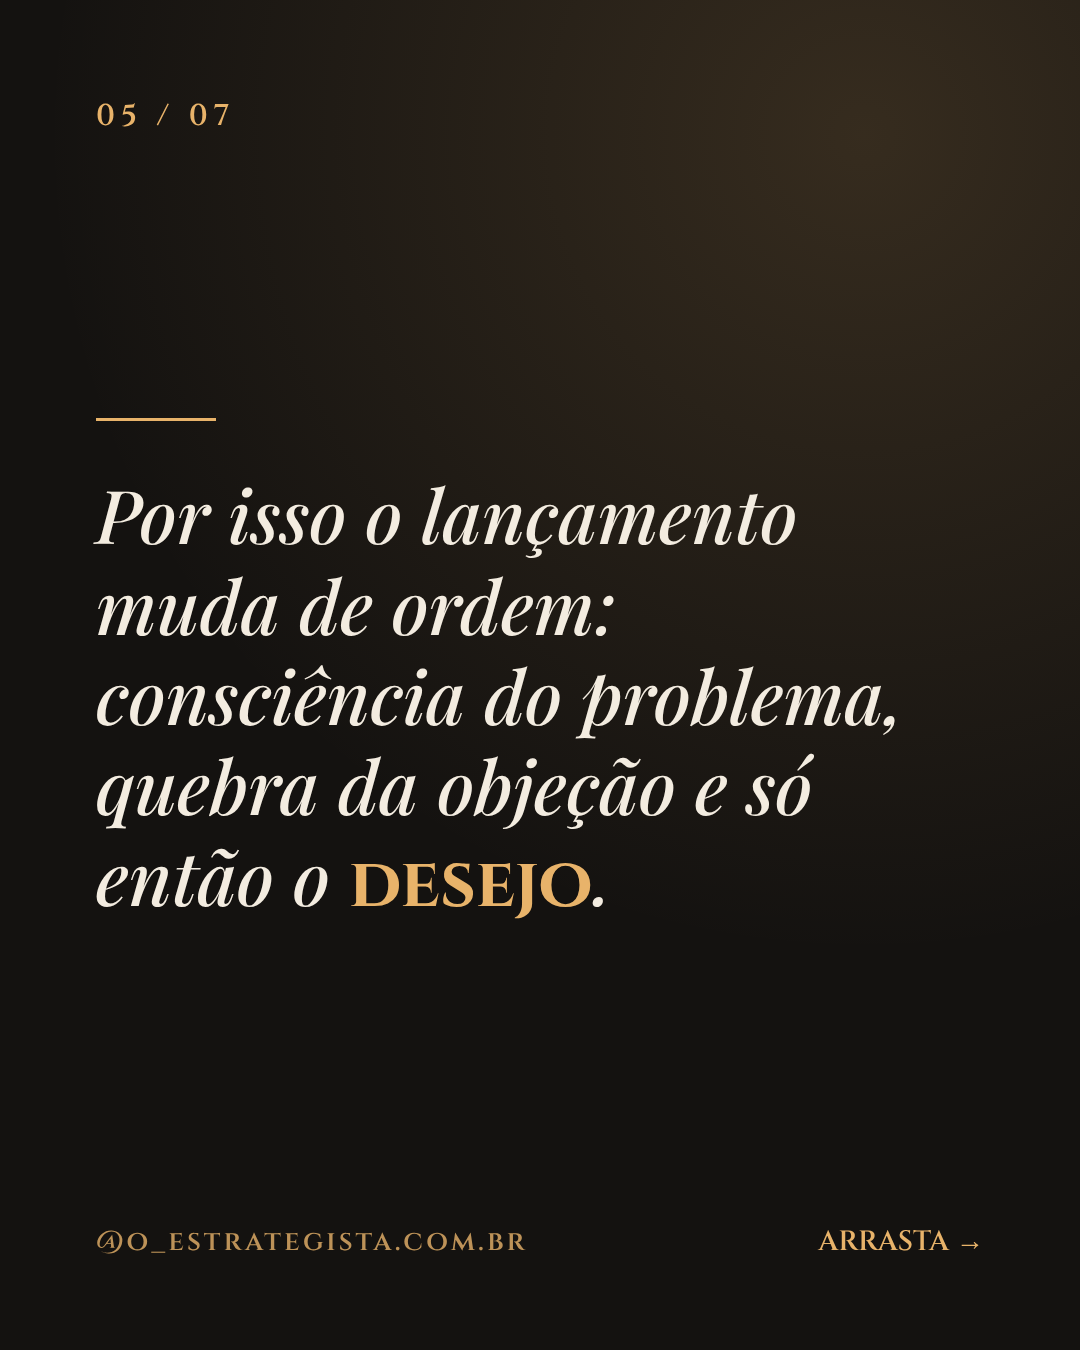
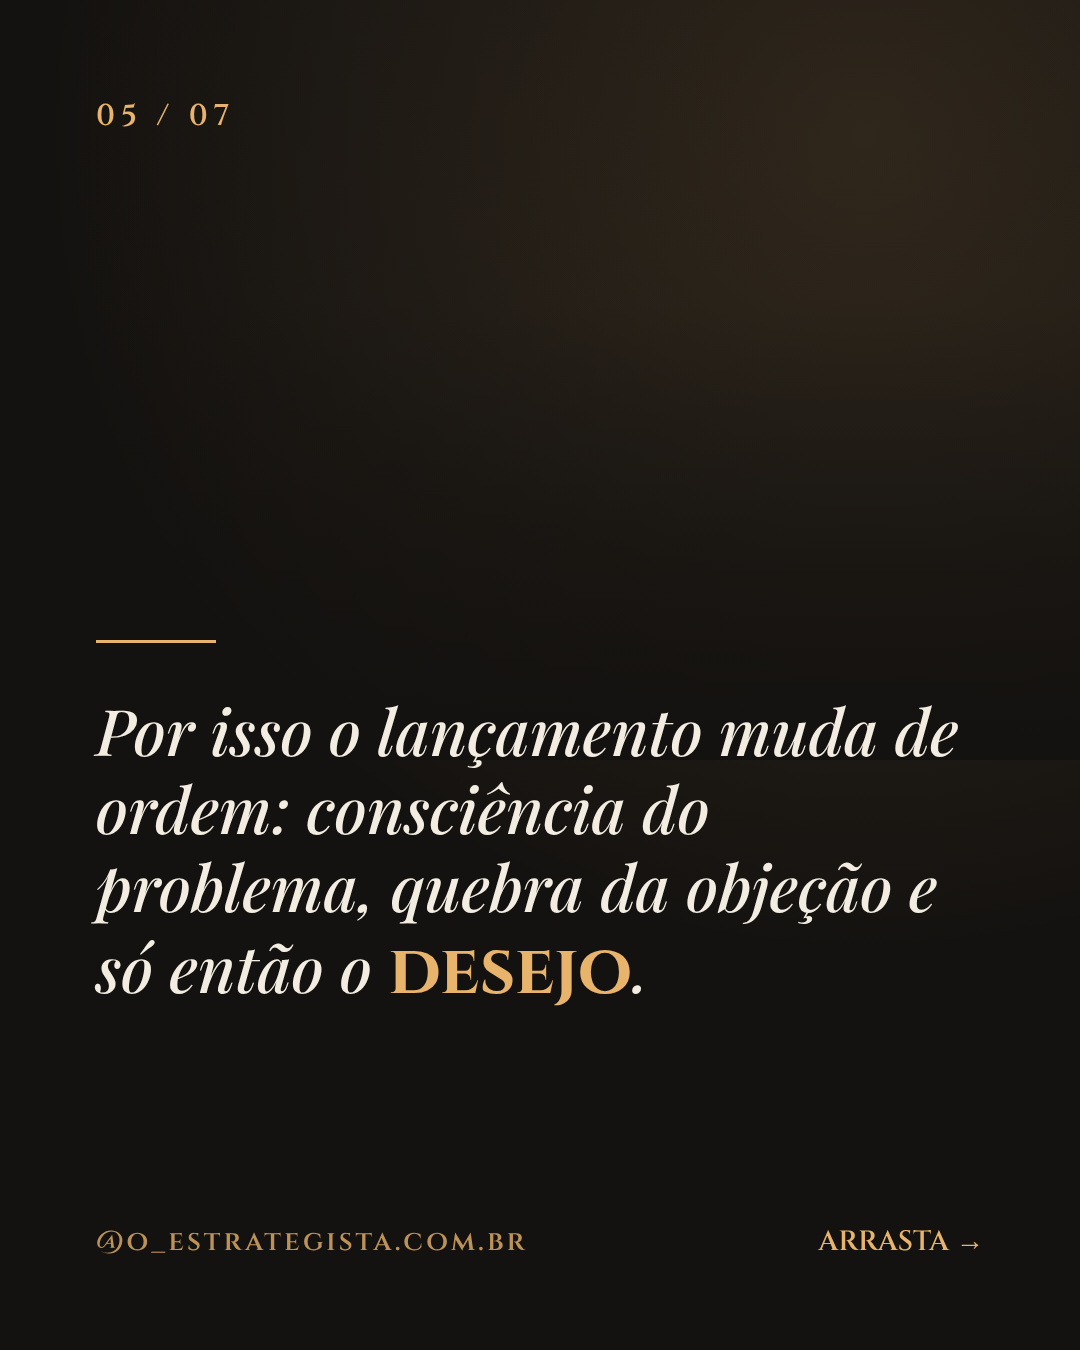
Carrossel da eleição com foto em cada lâmina
Claude-Session: https://claude.ai/code/session_01D6NtRh1ZFd58NJkYdfc4eK

Changed region(s): [[0.0917, 0.4356, 0.8861, 0.7467], [0.2139, 0.3422, 0.7333, 0.4044], [0.0917, 0.3422, 0.1833, 0.4044]]

diff --git a/estaticos/carrossel-eleicao/c.html b/estaticos/carrossel-eleicao/c.html
@@ -2,15 +2,16 @@
 @font-face{font-family:Cinzel;src:url(/home/user/Disparo-/videos/ads/a01-campinas/fonts/cinzel-latin.woff2)}
 @font-face{font-family:Pf;src:url(/home/user/Disparo-/videos/ads/a01-campinas/fonts/playfair-italic-latin.woff2);font-style:italic}
 body{margin:0;width:1080px;height:1350px;background:#141210;color:#f3ece0;overflow:hidden}
-#s{position:absolute;inset:0;padding:120px 96px;box-sizing:border-box;display:flex;flex-direction:column;justify-content:center;
+#s{position:absolute;inset:0;padding:640px 96px 150px;box-sizing:border-box;display:flex;flex-direction:column;justify-content:flex-start;
 background:radial-gradient(circle at 80% 10%,rgba(232,179,106,.16),transparent 55%),#141210}
-.n{font:600 30px Cinzel;color:#E8B36A;letter-spacing:6px;position:absolute;top:96px;left:96px}
-.f{height:3px;width:120px;background:#E8B36A;margin-bottom:48px}
-.t{font:italic 74px/1.22 Pf}.t b{font:700 70px Cinzel;color:#E8B36A;font-style:normal}
-.c .t{font-size:92px}.a{position:absolute;bottom:90px;left:96px;font:600 28px Cinzel;color:#E8B36A;opacity:.8;letter-spacing:3px}
+.img{position:absolute;left:0;top:0;width:1080px;height:760px;background-size:cover;background-position:center 25%}.img:after{content:'';position:absolute;inset:0;background:linear-gradient(rgba(20,18,16,.25),rgba(20,18,16,.15) 40%,#141210 98%)}
+.n{z-index:2;font:600 30px Cinzel;color:#E8B36A;letter-spacing:6px;position:absolute;top:96px;left:96px}
+.f,.t{position:relative;z-index:2}.f{height:3px;width:120px;background:#E8B36A;margin-bottom:48px}
+.t{font:italic 64px/1.22 Pf}.t b{font:700 70px Cinzel;color:#E8B36A;font-style:normal}
+.c .t{font-size:80px}.a{position:absolute;bottom:90px;left:96px;font:600 28px Cinzel;color:#E8B36A;opacity:.8;letter-spacing:3px}
 .p{position:absolute;bottom:90px;right:96px;font:600 28px Cinzel;color:#E8B36A}
 </style><div id=s></div><script>
-const L=[
+const I=['f1.jpg','f5.jpg','f3.jpg','f2.jpg','f4.jpg','f5.jpg','f1.jpg'];const L=[
 'Eleição decidida. O que muda no seu próximo <b>lançamento</b>?',
 'Quando o cenário é incerto, o cliente não para de comprar. Ele compra o que protege o <b>futuro</b> dele.',
 'Conhecimento entra nessa lista: faturar mais com o próprio negócio, se organizar, cuidar da saúde para aguentar a <b>pressão</b>.',
@@ -19,5 +20,5 @@ const L=[
 'Quem só grita oferta vai sentir o mercado travar. Quem conduz a conversa encontra um público mais <b>atento</b>.',
 'Vai lançar nos próximos 90 dias? Me manda a sua área no <b>direct</b>.'];
 function render(i){document.getElementById('s').className=i==0?'c':'';document.getElementById('s').innerHTML=
-`<div class=n>${i==0?'O ESTRATEGISTA':'0'+(i+1)+' / 07'}</div><div class=f></div><div class=t>${L[i]}</div><div class=a>@o_estrategista.com.br</div>${i<6?'<div class=p>ARRASTA →</div>':''}`}
+`<div class=img style="background-image:url(/home/user/Disparo-/estaticos/stories-frases/${I[i]})"></div><div class=n>${i==0?'O ESTRATEGISTA':'0'+(i+1)+' / 07'}</div><div class=f></div><div class=t>${L[i]}</div><div class=a>@o_estrategista.com.br</div>${i<6?'<div class=p>ARRASTA →</div>':''}`}
 </script>
